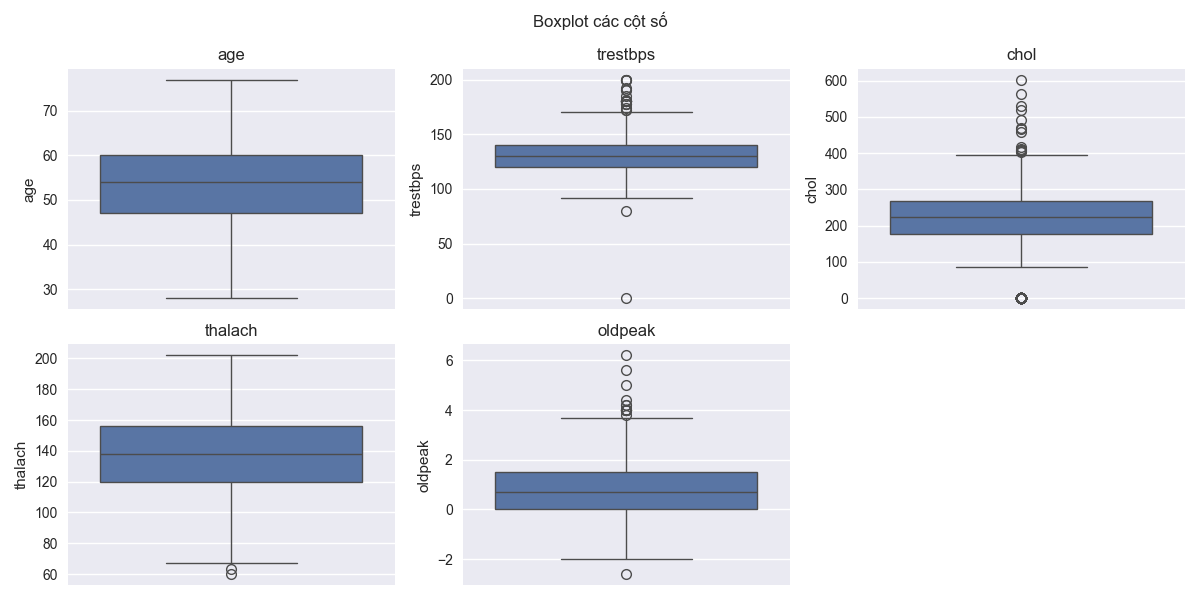
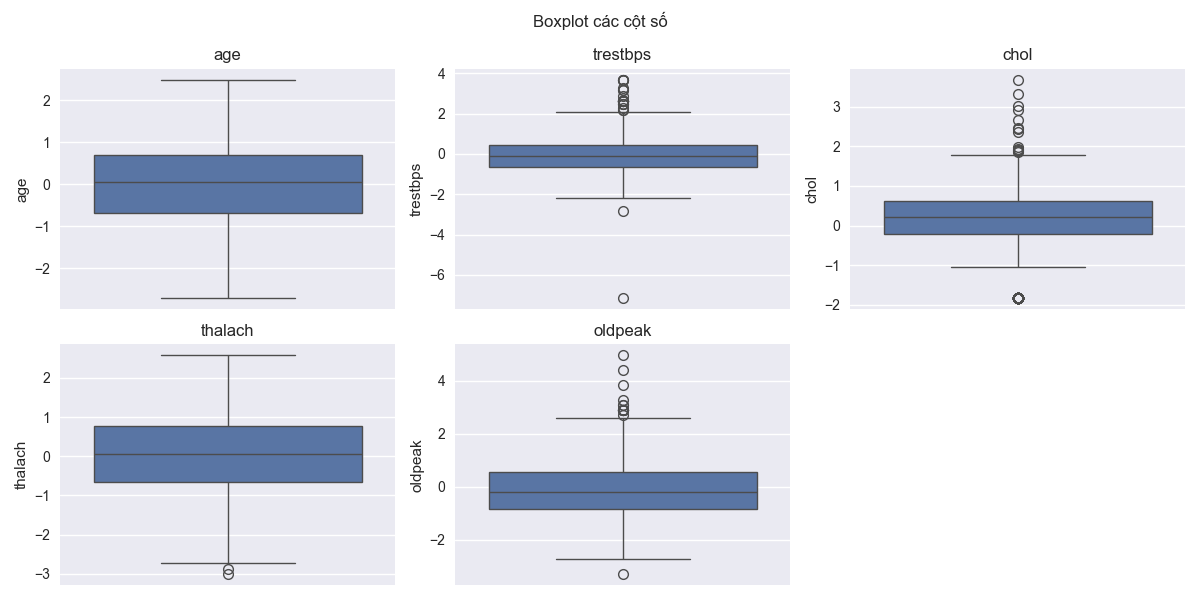
upd

diff --git a/docs/README.md b/docs/README.md
@@ -32,23 +32,23 @@ Bộ dữ liệu được sử dụng là **UCI Heart Disease Dataset** (process
 - Các cột phân loại (`sex`, `cp`, `fbs`, `restecg`, `exang`, `slope`, `ca`, `thal`) sẽ được mã hóa (encoding) trong quá trình tiền xử lý dữ liệu.
 - Các cột số (`age`, `trestbps`, `chol`, `thalach`, `oldpeak`) sẽ được chuẩn hóa (scaling) để đảm bảo tính đồng nhất.
 
-
-# /data/ là nơi chứa bộ dữ liệu
+## MÔ TẢ CÁC FOLDER
+### /data/ là nơi chứa bộ dữ liệu
     -   /raw chứa bộ dữ liệu lấy từ heart+disease.zip
     -   /processed chứa bộ dữ liệu được gộp và tiền xử lí từ /raw
 
-# /src/ là nơi chứa code cho các nhiệm vụ chính
+### /src/ là nơi chứa code cho các nhiệm vụ chính
     -   data_preprocessing.py: mục đích là xử lý dữ liệu thiếu và tổng hợp các dữ liệu lại
 
-# /reports/ là nơi chứa word và ppt đã được tổng hợp và sẽ dùng để trình bày.
+### /reports/ là nơi chứa word và ppt đã được tổng hợp và sẽ dùng để trình bày.
 
-# /figures/ là nơi chứa các hình ảnh được tạo từ code.
+### /figures/ là nơi chứa các hình ảnh được tạo từ code.
     - correlation_heatmap: Biểu đồ heatmap tương quan giữa các biến.
     - model_performance: Biểu đồ ROC-AUC hoặc confusion matrix của các mô hình.
     - risk_factor_analysis: Biểu đồ phân tích yếu tố nguy cơ (ví dụ: boxplot tuổi/giới tính).
     - bla bla
 
-# /models/ Chứa các mô hình đã huấn luyện (tùy chọn).
-    - logistic_regression_model: Mô hình Logistic Regression lưu bằng joblib/pickle.
+### /models/ Chứa các mô hình đã huấn luyện (tùy chọn).
+    - logistic_regression_model: Mô hình Logistic Regression.
     - svm_model: Mô hình SVM.
     - random_forest_model: Mô hình Random Forest.
